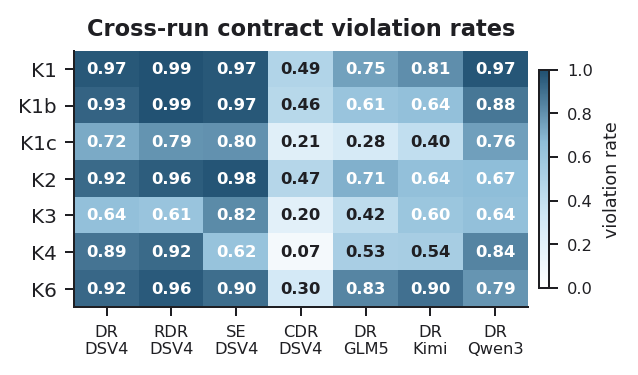
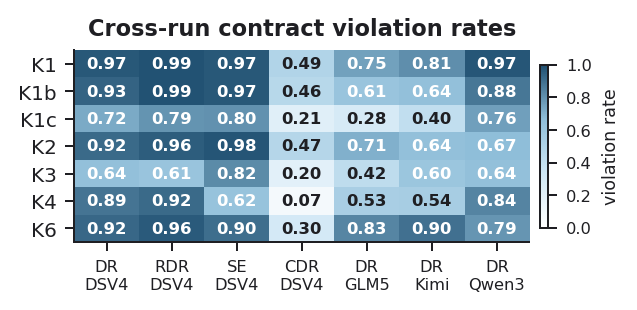
figs: full column-width figures with height-compensated canvases; ROC figure added
- all single-column figures now render at \linewidth (side margins gone);
  canvas heights rescaled so displayed heights are unchanged and fonts
  gain ~5-15%
- new compact 1x4 ROC figure (fig_auroc) joins the paper as Figure 10
- budget-planner panel restored as Figure 12 bottom

Changed region(s): [[0.0298, 0.029, 0.9843, 0.9581]]

diff --git a/scripts/make_paper_figures.py b/scripts/make_paper_figures.py
@@ -241,7 +241,7 @@ def replacement_crossrun_violations() -> None:
     short_runs = ["DR\nDSV4", "RDR\nDSV4", "SE\nDSV4", "CDR\nDSV4",
                   "DR\nGLM5", "DR\nKimi", "DR\nQwen3"]
 
-    fig, ax = plt.subplots(figsize=(3.5, 2.0))
+    fig, ax = plt.subplots(figsize=(3.5, 1.64))
     from matplotlib.colors import LinearSegmentedColormap
     cmap = LinearSegmentedColormap.from_list(
         "ggblues", [_S.WHITE, _S.BLUE, _S.BLUE_DARK, "#1F4F70"])
@@ -285,7 +285,7 @@ def replacement_amp_crossrun() -> None:
     x = np.arange(len(rows))
     w = 0.38
 
-    fig, ax = plt.subplots(figsize=(3.5, 1.56))
+    fig, ax = plt.subplots(figsize=(3.5, 1.27))
     b1 = ax.bar(x - w/2, q1, w, color=_S.BLUE, edgecolor=_S.BLUE_DARK,
                 linewidth=0.6, label=r"$Q_1$ (single-hop)")
     b2 = ax.bar(x + w/2, q3, w, color=_S.PINK, edgecolor=_S.PINK_DARK,
@@ -341,7 +341,7 @@ def replacement_strict_vs_soft() -> None:
     labels = list(rows.keys())
     x = np.arange(len(labels))
     w = 0.25
-    fig, axes = plt.subplots(1, 2, figsize=(3.5, 1.7), sharey=True)
+    fig, axes = plt.subplots(1, 2, figsize=(3.5, 1.56), sharey=True)
 
     def plot_one(ax, data, title):
         l1 = [data[l][0] for l in labels]
@@ -527,7 +527,7 @@ def make_noise_floor_figure():
     base_color   = _BLUE_LIGHT
     floor_line   = _PINK
 
-    fig, axes = plt.subplots(1, 4, figsize=(3.5, 0.85), sharey=True,
+    fig, axes = plt.subplots(1, 4, figsize=(3.5, 0.83), sharey=True,
                              gridspec_kw={"wspace": 0.20})
 
     for ax, (tag, name) in zip(axes, CORPORA):
@@ -599,7 +599,7 @@ def make_2d_sensitivity_figure():
     # Re-DocRED and SciERC sit at 0.00 harm / >=0.99 utility over the whole
     # grid and ship in the artifact.
     shown = [c for c in CORPORA if c[1] in ("DocRED", "BC5CDR")]
-    fig, axes = plt.subplots(2, 2, figsize=(3.5, 2.05))
+    fig, axes = plt.subplots(2, 2, figsize=(3.5, 1.88))
 
     cmap_harm = mcolors.LinearSegmentedColormap.from_list(
         "harm", ["#FFFFFF", _S.PINK, _S.PINK_DARK, "#8B2D44"])
@@ -729,21 +729,19 @@ def _scores_from_baselines(tag: str) -> dict[str, np.ndarray]:
 
 
 def make_auroc_figure():
-    _S.apply_rc(font_size=10)
-    # Single-column, 2 rows (ROC top, PR bottom) x 4 cols (corpora).
-    fig, axes = plt.subplots(2, 4, figsize=(7.6, 4.4), sharex=True, sharey=True)
-    axes_roc = axes[0]
-    axes_pr = axes[1]
+    # Native single-column 1x4 row, ROC only (PR curves ship in the
+    # artifact); style matches the other 1x4 panel figures.
+    _S.apply_rc(font_size=7)
+    fig, axes = plt.subplots(1, 4, figsize=(3.5, 0.73), sharey=True,
+                             gridspec_kw={"wspace": 0.20})
 
     roc_summary = {}
-
-    for ax_r, ax_p, (tag, name) in zip(axes_roc, axes_pr, CORPORA):
+    for ax_r, (tag, name) in zip(axes, CORPORA):
         pairs = load_pairs(tag)
         labels = np.array([int(p["harmful"]) for p in pairs])
-
         if labels.sum() == 0 or labels.sum() == len(labels):
-            ax_r.text(0.5, 0.5, "No var.", ha="center", transform=ax_r.transAxes, fontsize=9)
-            ax_p.text(0.5, 0.5, "No var.", ha="center", transform=ax_p.transAxes, fontsize=9)
+            ax_r.text(0.5, 0.5, "No var.", ha="center",
+                      transform=ax_r.transAxes, fontsize=6)
             continue
 
         scores_map = {
@@ -754,81 +752,49 @@ def make_auroc_figure():
                 [p["max_answer_drift"] for p in pairs]
             ),
         }
-
-        try:
-            fb = json.loads((REPORTS / f"fair_budget_{tag}.json").read_text())
-            if isinstance(fb, list) and fb and "confidence" in fb[0]:
-                conf = np.array([r.get("confidence", 0.5) for r in fb])
-                if len(conf) == len(labels):
-                    scores_map["confidence_inv"] = 1.0 - conf
-        except Exception:
-            pass
-
         roc_summary[name] = {}
         roc_text_lines = []
-        pr_text_lines = []
         for mkey, scores in scores_map.items():
             label = MONITOR_LABELS.get(mkey, mkey)
             color = MONITOR_COLORS.get(mkey, "#888888")
             ls = MONITOR_LS.get(mkey, "-")
-            try:
-                fpr, tpr, _ = roc_curve(labels, scores)
-                auroc = auc(fpr, tpr)
-                ax_r.plot(fpr, tpr, color=color, ls=ls, lw=1.4, label=label)
+            fpr, tpr, _ = roc_curve(labels, scores)
+            auroc = auc(fpr, tpr)
+            ax_r.plot(fpr, tpr, color=color, ls=ls, lw=0.9, label=label)
+            roc_text_lines.append(f"{auroc:.2f}")
+            roc_summary[name][label] = {"auroc": round(auroc, 3)}
 
-                prec, rec, _ = precision_recall_curve(labels, scores)
-                auprc = auc(rec, prec)
-                ax_p.plot(rec, prec, color=color, ls=ls, lw=1.4, label=label)
+        ax_r.text(0.95, 0.06, "\n".join(roc_text_lines),
+                  transform=ax_r.transAxes, ha="right", va="bottom",
+                  fontsize=4.6, family="monospace",
+                  bbox=dict(boxstyle="round,pad=0.15", fc="white",
+                            ec="#cccccc", alpha=0.85))
+        ax_r.plot([0, 1], [0, 1], color=_GRAY, ls=":", lw=0.5, alpha=0.6)
+        ax_r.set_xlim(0, 1)
+        ax_r.set_ylim(0, 1.02)
+        ax_r.tick_params(labelsize=6)
+        ax_r.set_xticks([0, 0.5, 1.0])
+        ax_r.set_xticklabels(["0", ".5", "1"])
+        ax_r.set_yticks([0, 0.5, 1.0])
+        ax_r.grid(ls=":", alpha=0.4)
+        for sp in ("top", "right"):
+            ax_r.spines[sp].set_visible(False)
+        ax_r.set_title(name, fontsize=7, fontweight="bold")
 
-                roc_text_lines.append(f"{auroc:.2f}")
-                pr_text_lines.append(f"{auprc:.2f}")
-                roc_summary[name][label] = {"auroc": round(auroc, 3),
-                                             "auprc": round(auprc, 3)}
-            except Exception:
-                pass
-
-        if roc_text_lines:
-            ax_r.text(0.97, 0.05, "\n".join(roc_text_lines),
-                      transform=ax_r.transAxes, ha="right", va="bottom",
-                      fontsize=7.5, family="monospace",
-                      bbox=dict(boxstyle="round,pad=0.18", fc="white",
-                                ec="#cccccc", alpha=0.85))
-        if pr_text_lines:
-            ax_p.text(0.97, 0.95, "\n".join(pr_text_lines),
-                      transform=ax_p.transAxes, ha="right", va="top",
-                      fontsize=7.5, family="monospace",
-                      bbox=dict(boxstyle="round,pad=0.18", fc="white",
-                                ec="#cccccc", alpha=0.85))
-
-        ax_r.plot([0, 1], [0, 1], color=_GRAY, ls=":", lw=0.6, alpha=0.6)
-        ax_r.set_xlim(0, 1); ax_r.set_ylim(0, 1.02)
-        ax_p.set_xlim(0, 1); ax_p.set_ylim(0, 1.02)
-
-        for ax in (ax_r, ax_p):
-            ax.tick_params(labelsize=8.5)
-            ax.set_xticks([0, 0.5, 1.0])
-            ax.set_yticks([0, 0.5, 1.0])
-            ax.grid(ls=":", alpha=0.4)
-            for s in ("top", "right"):
-                ax.spines[s].set_visible(False)
-
-        ax_r.set_title(name, fontsize=10.5, fontweight="bold")
-
-    axes_roc[0].set_ylabel("TPR", fontsize=10)
-    axes_pr[0].set_ylabel("Precision", fontsize=10)
-    for ax in axes_pr:
-        ax.set_xlabel("FPR / Recall", fontsize=9.5)
-
-    handles, labels_ = axes_roc[0].get_legend_handles_labels()
+    axes[0].set_ylabel("TPR", fontsize=6.5)
+    for ax in axes:
+        ax.set_xlabel("FPR", fontsize=6.5)
+    handles, labels_ = axes[0].get_legend_handles_labels()
     if handles:
-        fig.legend(handles, labels_, loc="lower center",
-                   ncol=len(handles), fontsize=9, frameon=False,
-                   bbox_to_anchor=(0.5, -0.04), handlelength=1.8,
-                   columnspacing=1.2)
+        axes[0].legend(handles, labels_, loc="upper left",
+                       bbox_to_anchor=(-0.02, 1.04), fontsize=4.4,
+                       frameon=True, framealpha=0.9, edgecolor="none",
+                       borderpad=0.2, handlelength=1.0,
+                       labelspacing=0.2, handletextpad=0.3)
 
-    fig.tight_layout(h_pad=0.3, w_pad=0.3, rect=(0, 0.04, 1, 1))
+    fig.tight_layout()
     out = FIG_DIR / "fig_auroc.png"
-    fig.savefig(str(out), dpi=260, bbox_inches="tight")
+    fig.savefig(str(out), dpi=400, bbox_inches="tight")
     plt.close(fig)
 
     print(f"[W4] saved {out}")
@@ -836,7 +802,7 @@ def make_auroc_figure():
     for corpus, ms in roc_summary.items():
         print(f"  {corpus}:")
         for m, vals in ms.items():
-            print(f"    {m}: AUROC={vals['auroc']:.3f}  AUPRC={vals['auprc']:.3f}")
+            print(f"    {m}: AUROC={vals['auroc']:.3f}")
 
 
 if __name__ == "__main__":

diff --git a/scripts/make_kuzu_gate_artifacts.py b/scripts/make_kuzu_gate_artifacts.py
@@ -174,7 +174,7 @@ def risk_coverage_curve(pairs, score_fn):
 def build_figure():
     # Native single-column canvas so fonts render ~1:1 in the PDF.
     gg_style.apply_rc(font_size=7)
-    fig, axes = plt.subplots(1, 4, figsize=(3.5, 0.68), sharey=True,
+    fig, axes = plt.subplots(1, 4, figsize=(3.5, 0.64), sharey=True,
                              gridspec_kw={"wspace": 0.20})
     for ax, (ds_name, run) in zip(axes, DATASETS):
         pairs = load_pairs(run)

diff --git a/scripts/make_gate_figure.py b/scripts/make_gate_figure.py
@@ -68,7 +68,7 @@ def panel(ax, data, ylabel, ylim, annotate=True):
 
 def main() -> int:
     _S.apply_rc(font_size=9)
-    fig, (ax1, ax2) = plt.subplots(2, 1, figsize=(3.6, 2.35),
+    fig, (ax1, ax2) = plt.subplots(2, 1, figsize=(3.6, 1.98),
                                    gridspec_kw={"hspace": 0.62})
     panel(ax1, HARM, "pub. harm rate", (0, 0.58))
     ax1.legend(fontsize=7, ncol=3, frameon=False, loc="upper left",

diff --git a/scripts/run_budget_planner.py b/scripts/run_budget_planner.py
@@ -146,7 +146,7 @@ def main():
     }, indent=2))
     # Native single-column canvas so fonts render ~1:1 in the PDF.
     gg_style.apply_rc(font_size=7)
-    fig, axes = plt.subplots(1, 4, figsize=(3.5, 0.68), sharey=True,
+    fig, axes = plt.subplots(1, 4, figsize=(3.5, 0.60), sharey=True,
                              gridspec_kw={"wspace": 0.20})
     line_handles = None
     line_labels = None

diff --git a/scripts/run_magnitude_analysis.py b/scripts/run_magnitude_analysis.py
@@ -364,7 +364,7 @@ def make_figure(runs: list[str]) -> None:
         return
 
     _S.apply_rc(font_size=10)
-    fig, axes = plt.subplots(1, 2, figsize=(6.4, 2.25),
+    fig, axes = plt.subplots(1, 2, figsize=(6.4, 2.18),
                              gridspec_kw={"width_ratios": [1.35, 1]})
 
     # -- Panel A: presentation-level saturation (kind, not degree) ----------

diff --git a/scripts/make_extqueries_figure.py b/scripts/make_extqueries_figure.py
@@ -45,7 +45,7 @@ def main() -> int:
     x = np.arange(len(labels))
 
     _S.apply_rc(font_size=9)
-    fig, (ax1, ax2) = plt.subplots(2, 1, figsize=(3.6, 2.85),
+    fig, (ax1, ax2) = plt.subplots(2, 1, figsize=(3.6, 2.50),
                                    gridspec_kw={"hspace": 0.5})
 
     # ---- (a) amplification ------------------------------------------------
